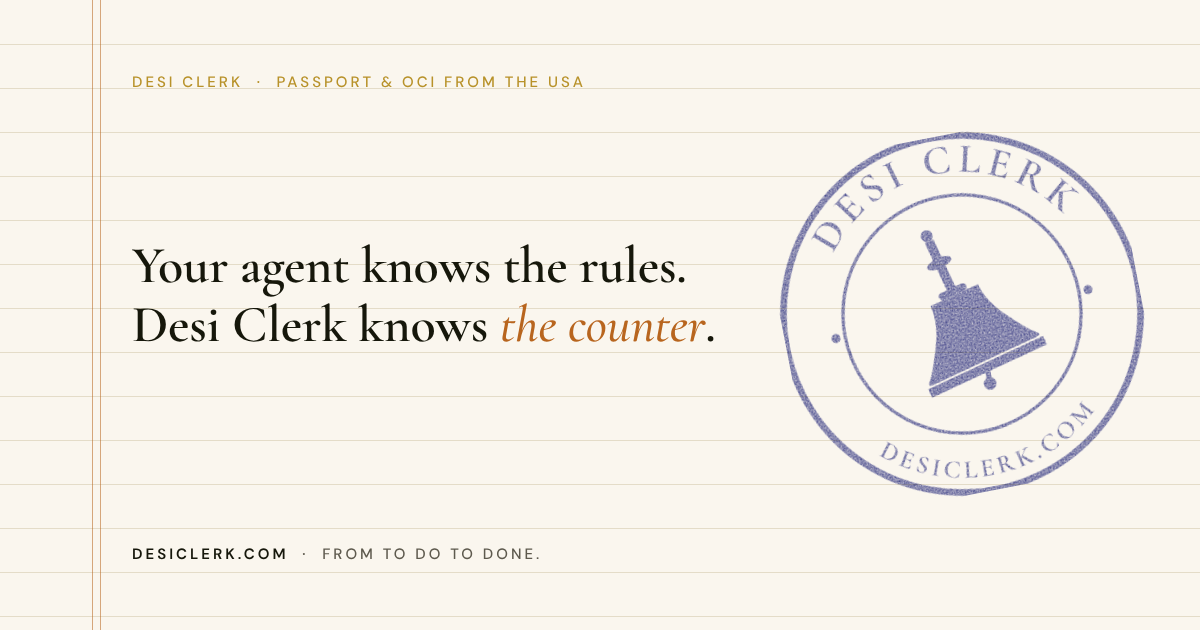
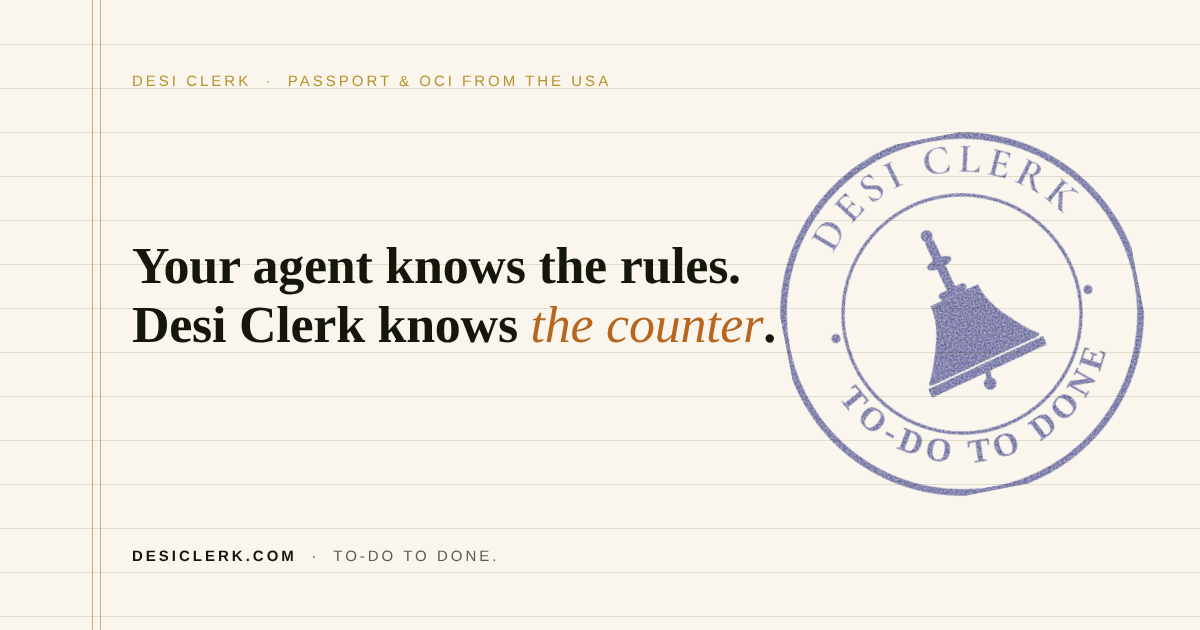
Skill served from desiclerk.com; stamp reads To-do to done
Claude-Session: https://claude.ai/code/session_017b7oD9xgapqAYvH9hE42Uo

diff --git a/card-source.html b/card-source.html
@@ -19,14 +19,15 @@ html,body{margin:0;background:var(--cream)}
 <div class="margin"></div>
 <div class="eyebrow">Desi Clerk &nbsp;·&nbsp; Passport &amp; OCI from the USA</div>
 <div class="line">Your agent knows the rules.<br>Desi Clerk knows <em>the counter</em>.</div>
-<div class="url"><b>desiclerk.com</b> &nbsp;·&nbsp; From to do to done.</div>
+<div class="url"><b>desiclerk.com</b> &nbsp;·&nbsp; To-do to done.</div>
 <div class="stamp"><svg xmlns="http://www.w3.org/2000/svg" viewBox="0 0 200 200" aria-hidden="true">
 <defs><filter id="grain" x="0" y="0" width="1" height="1"><feTurbulence type="fractalNoise" baseFrequency="1.1" numOctaves="2" seed="7" result="n"/><feColorMatrix in="n" type="matrix" values="0 0 0 0 0  0 0 0 0 0  0 0 0 0 0  0 0 0 -0.9 1.05" result="m"/><feComposite in="SourceGraphic" in2="m" operator="in"/></filter></defs>
 <g fill="#3B3F8F" filter="url(#grain)">
 <circle cx="100" cy="100" r="96" fill="none" stroke="#3B3F8F" stroke-width="3.5"/>
 <circle cx="100" cy="100" r="64" fill="none" stroke="#3B3F8F" stroke-width="1.75"/>
 <path d="M42.5 49.67Q42.05 50.18 41.32 50.89Q40.6 51.6 40.04 52.24Q39.52 52.81 39.07 53.35Q38.62 53.89 38.24 54.32Q38.21 54.35 38.11 54.26Q38.01 54.17 38.04 54.14Q38.52 53.6 38.69 53.25Q38.85 52.9 38.69 52.59Q38.52 52.28 38.05 51.85L30.44 45.08Q29.97 44.65 29.65 44.53Q29.33 44.41 29 44.59Q28.67 44.78 28.2 45.31Q28.16 45.36 28.06 45.27Q27.96 45.18 28 45.14Q28.38 44.72 28.86 44.23Q29.34 43.73 29.86 43.16Q30.37 42.58 30.94 41.86Q31.5 41.15 31.93 40.66Q33.47 38.94 35.26 38.25Q37.06 37.55 38.83 37.85Q40.6 38.15 42.01 39.41Q43.24 40.51 43.85 41.83Q44.46 43.15 44.48 44.53Q44.5 45.91 43.99 47.24Q43.48 48.57 42.5 49.67ZM42.02 49.54Q43.03 48.4 43.27 47.05Q43.51 45.7 42.91 44.27Q42.31 42.83 40.8 41.49Q39.39 40.23 37.84 39.68Q36.28 39.13 34.86 39.38Q33.44 39.62 32.4 40.79Q31.53 41.76 31.35 42.34Q31.17 42.92 31.87 43.54L39.26 50.13Q39.89 50.7 40.49 50.65Q41.08 50.6 42.02 49.54Z M58.98 35.28 51.22 40.85Q51.17 40.88 51.1 40.78Q51.02 40.67 51.07 40.63Q51.66 40.21 51.88 39.91Q52.1 39.62 52.01 39.28Q51.91 38.94 51.54 38.43L45.6 30.15Q45.22 29.64 44.94 29.45Q44.66 29.26 44.3 29.36Q43.94 29.47 43.35 29.9Q43.3 29.93 43.23 29.82Q43.15 29.72 43.2 29.68L50.64 24.34Q50.81 24.21 50.93 24.37L52.63 26.66Q52.66 26.71 52.57 26.78Q52.49 26.86 52.43 26.83Q51.49 25.96 50.5 25.91Q49.52 25.85 48.5 26.59L47.77 27.11Q47.33 27.43 47.14 27.71Q46.95 27.99 47 28.29Q47.05 28.6 47.32 28.98L53.19 37.13Q53.46 37.52 53.73 37.69Q54 37.85 54.29 37.8Q54.58 37.74 54.97 37.46L55.85 36.83Q57.06 35.96 57.39 34.84Q57.72 33.71 57.21 32.33Q57.19 32.27 57.3 32.22Q57.42 32.17 57.45 32.21Q57.74 32.76 58.19 33.49Q58.63 34.22 59.06 34.81Q59.25 35.08 58.98 35.28ZM55.07 31.95Q54.53 31.2 53.75 31.16Q52.98 31.13 51.96 31.85L49.46 33.65L49.13 33.2L51.66 31.38Q52.65 30.67 52.89 29.98Q53.13 29.29 52.67 28.65Q52.63 28.6 52.74 28.53Q52.84 28.45 52.87 28.5Q53.28 29.07 53.5 29.4Q53.72 29.72 53.97 30.07Q54.28 30.5 54.6 30.9Q54.93 31.3 55.29 31.8Q55.31 31.83 55.2 31.91Q55.1 31.99 55.07 31.95Z M61.47 20.96Q61.83 21.74 62.49 22.14Q63.15 22.53 63.99 22.69Q64.84 22.85 65.75 22.98Q66.72 23.1 67.64 23.29Q68.56 23.49 69.32 23.96Q70.08 24.43 70.53 25.39Q71 26.41 70.82 27.45Q70.65 28.49 69.91 29.38Q69.17 30.27 67.89 30.85Q67.34 31.11 66.7 31.28Q66.07 31.44 65.48 31.51Q64.89 31.57 64.48 31.5Q64.36 31.48 64.28 31.43Q64.19 31.37 64.11 31.21L62.59 28.25Q62.53 28.16 62.63 28.1Q62.74 28.04 62.79 28.11Q63.32 28.61 63.95 29.12Q64.58 29.64 65.28 29.99Q65.97 30.35 66.71 30.44Q67.44 30.53 68.19 30.19Q68.69 29.95 69.07 29.56Q69.46 29.17 69.55 28.58Q69.64 28 69.28 27.22Q68.84 26.27 68.11 25.8Q67.39 25.33 66.5 25.13Q65.61 24.94 64.68 24.82Q63.77 24.7 62.9 24.51Q62.04 24.33 61.35 23.88Q60.65 23.44 60.24 22.54Q59.74 21.44 60.01 20.46Q60.29 19.48 61.06 18.72Q61.84 17.95 62.81 17.5Q63.47 17.2 64.21 17.01Q64.94 16.82 65.51 16.8Q65.73 16.79 65.83 16.86Q65.93 16.93 65.99 17.05L67.28 19.74Q67.31 19.8 67.23 19.87Q67.14 19.94 67.08 19.89Q66.85 19.64 66.4 19.2Q65.95 18.77 65.35 18.39Q64.74 18.01 64.02 17.88Q63.3 17.75 62.52 18.1Q61.93 18.38 61.6 18.82Q61.28 19.27 61.23 19.81Q61.19 20.35 61.47 20.96Z M80.19 24.26Q80.36 24.87 80.56 25.16Q80.76 25.45 81.13 25.46Q81.5 25.47 82.2 25.28Q82.26 25.26 82.29 25.39Q82.33 25.52 82.27 25.53Q81.73 25.68 81.06 25.84Q80.4 26 79.61 26.22Q78.86 26.43 78.19 26.64Q77.52 26.84 76.98 26.99Q76.93 27.01 76.89 26.88Q76.86 26.75 76.91 26.74Q77.6 26.55 77.93 26.34Q78.25 26.14 78.28 25.79Q78.32 25.44 78.15 24.82L75.44 15Q75.27 14.39 75.07 14.11Q74.86 13.84 74.47 13.82Q74.08 13.8 73.39 13.99Q73.34 14.01 73.3 13.88Q73.27 13.75 73.32 13.74Q73.86 13.59 74.55 13.44Q75.23 13.28 75.98 13.07Q76.77 12.85 77.43 12.64Q78.09 12.42 78.61 12.28Q78.67 12.26 78.71 12.39Q78.74 12.52 78.68 12.53Q78 12.72 77.69 12.94Q77.38 13.17 77.35 13.52Q77.32 13.87 77.49 14.48Z M104.06 9.58Q104.81 9.6 105.53 9.69Q106.24 9.78 106.87 9.95Q107.49 10.12 107.99 10.37Q108.17 10.45 108.22 10.54Q108.27 10.63 108.28 10.88L108.49 13.79Q108.49 13.85 108.37 13.88Q108.26 13.9 108.22 13.81Q107.69 12 106.59 11.02Q105.48 10.04 103.8 10Q102.17 9.95 100.9 10.73Q99.63 11.5 98.88 12.96Q98.14 14.42 98.09 16.46Q98.05 17.97 98.45 19.24Q98.84 20.5 99.6 21.42Q100.35 22.35 101.38 22.87Q102.4 23.39 103.63 23.42Q105.28 23.46 106.36 22.62Q107.43 21.78 108.27 19.98Q108.31 19.92 108.41 19.94Q108.52 19.97 108.51 20.03L108.16 22.64Q108.13 22.9 108.08 22.97Q108.02 23.04 107.84 23.13Q106.75 23.54 105.71 23.7Q104.67 23.86 103.61 23.84Q101.25 23.78 99.45 22.83Q97.64 21.89 96.64 20.25Q95.63 18.62 95.69 16.52Q95.73 14.94 96.38 13.64Q97.02 12.34 98.16 11.42Q99.3 10.5 100.81 10.02Q102.31 9.54 104.06 9.58Z M119.74 13.77 117.33 23.55Q117.19 24.1 117.22 24.4Q117.26 24.69 117.54 24.86Q117.81 25.02 118.4 25.17L119.68 25.48Q121.2 25.86 122.46 25.26Q123.71 24.66 124.41 23.33Q124.44 23.27 124.54 23.31Q124.65 23.36 124.63 23.42Q124.4 24.07 124.11 24.99Q123.82 25.9 123.62 26.69Q123.54 27.01 123.22 26.93L113.21 24.47Q113.17 24.46 113.2 24.33Q113.23 24.2 113.27 24.21Q113.97 24.38 114.35 24.36Q114.72 24.34 114.92 24.05Q115.12 23.76 115.27 23.14L117.71 13.25Q117.86 12.63 117.82 12.29Q117.78 11.95 117.46 11.75Q117.14 11.54 116.44 11.37Q116.39 11.36 116.43 11.23Q116.46 11.11 116.5 11.12Q117.01 11.24 117.69 11.44Q118.37 11.65 119.12 11.83Q119.92 12.03 120.59 12.16Q121.27 12.29 121.79 12.42Q121.85 12.43 121.82 12.56Q121.79 12.69 121.73 12.68Q121.04 12.51 120.66 12.54Q120.28 12.57 120.09 12.86Q119.89 13.15 119.74 13.77Z M136.51 32.62 127.86 28.57Q127.81 28.55 127.86 28.43Q127.92 28.31 127.97 28.33Q128.63 28.64 129 28.69Q129.36 28.74 129.61 28.49Q129.86 28.24 130.13 27.67L134.45 18.44Q134.72 17.87 134.75 17.53Q134.78 17.19 134.51 16.93Q134.24 16.67 133.58 16.36Q133.53 16.34 133.59 16.22Q133.64 16.1 133.7 16.12L141.99 20.01Q142.18 20.1 142.1 20.28L140.93 22.88Q140.91 22.93 140.8 22.89Q140.69 22.86 140.69 22.79Q140.99 21.54 140.55 20.66Q140.12 19.77 138.98 19.24L138.17 18.86Q137.68 18.63 137.34 18.6Q137 18.57 136.76 18.77Q136.52 18.96 136.32 19.38L132.06 28.48Q131.86 28.9 131.84 29.22Q131.83 29.53 132.02 29.76Q132.21 29.99 132.65 30.19L133.63 30.65Q134.97 31.29 136.12 31.02Q137.26 30.76 138.22 29.65Q138.26 29.6 138.36 29.67Q138.46 29.75 138.44 29.8Q138.1 30.32 137.68 31.06Q137.26 31.81 136.95 32.47Q136.81 32.77 136.51 32.62ZM137.5 27.59Q137.9 26.76 137.55 26.06Q137.2 25.36 136.07 24.83L133.28 23.52L133.52 23.01L136.34 24.34Q137.45 24.86 138.17 24.73Q138.88 24.6 139.22 23.89Q139.24 23.83 139.36 23.88Q139.47 23.94 139.44 23.99Q139.14 24.63 138.97 24.98Q138.79 25.33 138.61 25.71Q138.38 26.2 138.19 26.67Q138 27.15 137.74 27.71Q137.72 27.75 137.6 27.69Q137.48 27.63 137.5 27.59Z M150.06 42Q149.79 41.79 149.69 40.66Q149.59 39.53 149.69 37.62Q149.79 35.72 150.05 33.17L151.77 33.81Q151.57 37.02 151.6 39.06Q151.62 41.09 151.97 42.25Q152.32 43.4 153.03 43.95Q153.07 43.98 152.99 44.09Q152.91 44.19 152.87 44.16Q151.77 43.31 151.07 42.78Q150.38 42.25 150.06 42ZM154.53 28Q156.06 29.18 156.41 30.41Q156.77 31.64 155.97 32.68Q155.2 33.68 154.03 34.03Q152.87 34.37 151.63 34.12Q150.4 33.86 149.38 33.08Q149.16 32.91 148.92 32.72Q148.69 32.53 148.5 32.36L145.51 36.24Q145.12 36.75 145.01 37.08Q144.9 37.41 145.12 37.72Q145.33 38.02 145.91 38.46Q145.95 38.49 145.86 38.6Q145.78 38.7 145.74 38.67Q145.3 38.33 144.77 37.9Q144.25 37.46 143.6 36.96Q142.99 36.49 142.42 36.09Q141.85 35.68 141.41 35.33Q141.36 35.3 141.44 35.19Q141.52 35.09 141.57 35.12Q142.15 35.57 142.5 35.7Q142.85 35.83 143.15 35.65Q143.45 35.46 143.84 34.96L150.06 26.89Q150.45 26.38 150.55 26.06Q150.65 25.73 150.44 25.42Q150.24 25.11 149.66 24.67Q149.62 24.64 149.7 24.53Q149.78 24.43 149.82 24.46Q150.26 24.8 150.79 25.24Q151.31 25.69 151.92 26.16Q152.49 26.59 153.22 27.08Q153.96 27.56 154.53 28ZM153.79 31.98Q154.57 30.97 154.75 30.24Q154.93 29.52 154.68 28.98Q154.42 28.44 153.86 28.01Q153.18 27.48 152.7 27.51Q152.21 27.54 151.7 28.21L148.86 31.89Q149.08 32.11 149.35 32.34Q149.62 32.58 149.83 32.74Q150.99 33.63 151.92 33.42Q152.84 33.21 153.79 31.98Z M157.8 46.99 165.72 40.58Q166.21 40.18 166.39 39.89Q166.56 39.59 166.42 39.23Q166.29 38.88 165.84 38.33Q165.81 38.28 165.91 38.2Q166.01 38.11 166.05 38.16Q166.4 38.6 166.81 39.15Q167.22 39.71 167.7 40.3Q168.22 40.94 168.67 41.45Q169.13 41.96 169.47 42.38Q169.51 42.43 169.41 42.51Q169.3 42.59 169.27 42.55Q168.82 42 168.49 41.8Q168.17 41.61 167.83 41.72Q167.5 41.83 167 42.23L159.12 48.62Q158.63 49.02 158.44 49.32Q158.26 49.62 158.4 49.96Q158.54 50.31 158.99 50.87Q159.04 50.93 158.94 51.01Q158.84 51.1 158.79 51.04Q158.44 50.6 158.03 50.07Q157.62 49.53 157.11 48.89Q156.62 48.3 156.16 47.76Q155.7 47.22 155.34 46.79Q155.32 46.75 155.42 46.67Q155.52 46.59 155.55 46.62Q156 47.19 156.32 47.4Q156.64 47.61 156.97 47.51Q157.31 47.4 157.8 46.99ZM162.49 50.54 163.74 45.44 165.8 45.74 164.48 51.07Q164.09 52.55 163.88 53.53Q163.66 54.52 163.59 55.13Q163.51 55.74 163.57 56.11Q163.63 56.48 163.8 56.74Q163.97 57.01 164.2 57.29Q164.24 57.34 164.14 57.43Q164.03 57.51 163.99 57.46Q163.38 56.7 163.01 56.24Q162.63 55.78 162.44 55.55Q162.26 55.33 162.12 55.18Q161.98 55.04 161.88 54.91Q161.7 54.69 161.65 54.46Q161.61 54.23 161.69 53.8Q161.77 53.38 161.97 52.61Q162.16 51.84 162.49 50.54ZM161.47 44.99 169.52 45.77Q170.67 45.89 170.95 45.43Q171.23 44.97 170.53 44.1Q170.49 44.06 170.59 43.97Q170.69 43.89 170.73 43.94Q171.09 44.38 171.44 44.87Q171.79 45.35 172.41 46.11Q173.03 46.88 173.42 47.3Q173.81 47.73 174.14 48.15Q174.19 48.2 174.08 48.28Q173.98 48.36 173.94 48.31Q173.35 47.58 172.23 47.01Q171.11 46.44 169.76 46.28L161.8 45.46Z"/>
-<path d="M44.8 168.61Q44.47 168.35 44.01 167.93Q43.55 167.51 43.15 167.18Q42.78 166.89 42.43 166.63Q42.08 166.37 41.81 166.16Q41.79 166.14 41.84 166.07Q41.89 166.01 41.91 166.03Q42.26 166.3 42.48 166.39Q42.7 166.48 42.88 166.37Q43.07 166.26 43.31 165.95L47.21 161.06Q47.45 160.76 47.51 160.56Q47.58 160.36 47.45 160.16Q47.33 159.97 46.99 159.7Q46.96 159.67 47.01 159.61Q47.06 159.55 47.09 159.57Q47.35 159.78 47.67 160.06Q47.99 160.34 48.36 160.64Q48.74 160.94 49.19 161.26Q49.65 161.58 49.96 161.83Q51.07 162.71 51.55 163.78Q52.04 164.86 51.92 165.96Q51.79 167.05 51.07 167.96Q50.44 168.75 49.65 169.17Q48.87 169.58 48.02 169.64Q47.17 169.7 46.34 169.44Q45.51 169.17 44.8 168.61ZM44.87 168.31Q45.6 168.89 46.43 168.99Q47.27 169.09 48.13 168.67Q48.99 168.26 49.76 167.29Q50.48 166.38 50.76 165.41Q51.05 164.44 50.85 163.57Q50.65 162.71 49.9 162.11Q49.28 161.62 48.91 161.52Q48.55 161.43 48.19 161.88L44.41 166.64Q44.08 167.04 44.14 167.41Q44.19 167.77 44.87 168.31Z M56.15 176.34 51.16 173.27Q51.13 173.25 51.17 173.18Q51.21 173.11 51.24 173.13Q51.62 173.36 51.84 173.42Q52.06 173.48 52.23 173.34Q52.4 173.21 52.61 172.88L55.89 167.56Q56.09 167.22 56.13 167.02Q56.17 166.81 56.03 166.64Q55.88 166.46 55.5 166.22Q55.47 166.21 55.51 166.14Q55.56 166.07 55.59 166.09L60.37 169.04Q60.48 169.1 60.42 169.21L59.52 170.71Q59.51 170.74 59.44 170.71Q59.38 170.68 59.38 170.64Q59.65 169.9 59.45 169.33Q59.25 168.76 58.59 168.36L58.12 168.07Q57.84 167.89 57.64 167.85Q57.43 167.81 57.27 167.91Q57.11 168.01 56.96 168.26L53.73 173.5Q53.57 173.75 53.54 173.94Q53.51 174.13 53.61 174.29Q53.71 174.44 53.96 174.59L54.53 174.94Q55.31 175.42 56.02 175.34Q56.74 175.26 57.4 174.65Q57.43 174.62 57.48 174.67Q57.54 174.73 57.52 174.75Q57.28 175.05 56.97 175.47Q56.66 175.9 56.43 176.28Q56.32 176.45 56.15 176.34ZM57.11 173.35Q57.4 172.86 57.24 172.41Q57.08 171.96 56.43 171.56L54.82 170.57L55 170.28L56.63 171.28Q57.26 171.67 57.71 171.65Q58.16 171.62 58.41 171.21Q58.43 171.17 58.49 171.21Q58.56 171.25 58.54 171.29Q58.31 171.65 58.18 171.85Q58.05 172.05 57.91 172.28Q57.74 172.56 57.59 172.83Q57.44 173.11 57.24 173.43Q57.23 173.45 57.16 173.41Q57.09 173.37 57.11 173.35Z M63.9 172.52Q63.67 172.99 63.74 173.46Q63.81 173.93 64.07 174.39Q64.32 174.85 64.62 175.33Q64.94 175.83 65.21 176.34Q65.48 176.86 65.56 177.4Q65.63 177.95 65.35 178.53Q65.05 179.15 64.5 179.48Q63.94 179.8 63.23 179.8Q62.52 179.8 61.74 179.43Q61.4 179.27 61.08 179.03Q60.75 178.8 60.49 178.54Q60.23 178.29 60.1 178.07Q60.06 178.01 60.05 177.94Q60.05 177.88 60.09 177.78L60.9 175.9Q60.91 175.84 60.98 175.86Q61.05 175.89 61.04 175.94Q61.01 176.39 61.01 176.89Q61.02 177.39 61.12 177.86Q61.23 178.32 61.47 178.71Q61.72 179.09 62.17 179.31Q62.48 179.45 62.81 179.48Q63.15 179.51 63.46 179.32Q63.77 179.13 64 178.66Q64.28 178.08 64.22 177.55Q64.15 177.02 63.9 176.53Q63.64 176.03 63.33 175.55Q63.03 175.07 62.78 174.59Q62.53 174.1 62.47 173.6Q62.41 173.1 62.67 172.56Q62.99 171.89 63.56 171.64Q64.13 171.38 64.8 171.45Q65.46 171.51 66.05 171.79Q66.46 171.99 66.84 172.26Q67.21 172.54 67.44 172.8Q67.54 172.9 67.54 172.97Q67.55 173.05 67.51 173.12L66.75 174.79Q66.73 174.83 66.67 174.81Q66.6 174.8 66.6 174.75Q66.63 174.54 66.66 174.16Q66.69 173.78 66.63 173.34Q66.58 172.91 66.35 172.52Q66.13 172.12 65.66 171.9Q65.29 171.72 64.96 171.74Q64.62 171.76 64.35 171.96Q64.07 172.15 63.9 172.52Z M70.19 181.64Q70.05 182 70.04 182.22Q70.04 182.43 70.22 182.57Q70.4 182.71 70.82 182.87Q70.85 182.88 70.83 182.96Q70.8 183.03 70.76 183.02Q70.44 182.9 70.05 182.74Q69.67 182.58 69.19 182.4Q68.74 182.23 68.34 182.1Q67.93 181.96 67.61 181.84Q67.58 181.83 67.61 181.75Q67.63 181.68 67.67 181.69Q68.08 181.84 68.31 181.86Q68.55 181.87 68.69 181.71Q68.83 181.55 68.97 181.18L71.16 175.33Q71.3 174.96 71.29 174.75Q71.29 174.54 71.1 174.39Q70.92 174.24 70.5 174.09Q70.47 174.08 70.5 174Q70.53 173.92 70.56 173.93Q70.89 174.06 71.28 174.23Q71.67 174.39 72.12 174.56Q72.6 174.74 73 174.87Q73.41 175 73.72 175.11Q73.75 175.13 73.72 175.2Q73.69 175.28 73.66 175.27Q73.25 175.11 73.02 175.11Q72.78 175.11 72.64 175.28Q72.5 175.44 72.36 175.81Z M81.04 177.12Q81.49 177.24 81.9 177.39Q82.31 177.55 82.66 177.74Q83.02 177.92 83.28 178.15Q83.37 178.22 83.39 178.28Q83.41 178.33 83.38 178.49L83.1 180.26Q83.09 180.29 83.02 180.29Q82.95 180.29 82.94 180.23Q82.87 179.08 82.35 178.34Q81.83 177.6 80.82 177.33Q79.86 177.08 78.99 177.37Q78.12 177.65 77.47 178.42Q76.82 179.19 76.51 180.4Q76.28 181.3 76.34 182.11Q76.4 182.92 76.72 183.58Q77.04 184.24 77.58 184.69Q78.12 185.14 78.85 185.33Q79.83 185.59 80.59 185.24Q81.35 184.89 82.1 183.93Q82.14 183.89 82.19 183.92Q82.25 183.95 82.24 183.99L81.67 185.5Q81.61 185.65 81.57 185.69Q81.53 185.72 81.41 185.75Q80.7 185.84 80.05 185.79Q79.41 185.74 78.78 185.58Q77.38 185.22 76.43 184.4Q75.49 183.58 75.11 182.47Q74.74 181.35 75.07 180.1Q75.31 179.16 75.88 178.48Q76.45 177.79 77.26 177.4Q78.07 177.01 79.03 176.93Q80 176.85 81.04 177.12Z M88.15 179.8 87.31 185.92Q87.26 186.27 87.3 186.44Q87.34 186.62 87.52 186.71Q87.7 186.79 88.07 186.84L88.87 186.95Q89.82 187.08 90.55 186.63Q91.28 186.19 91.61 185.33Q91.63 185.29 91.69 185.31Q91.76 185.33 91.76 185.37Q91.66 185.78 91.54 186.36Q91.42 186.94 91.35 187.43Q91.32 187.63 91.12 187.61L84.85 186.75Q84.83 186.74 84.84 186.66Q84.85 186.58 84.88 186.59Q85.31 186.65 85.54 186.61Q85.77 186.57 85.87 186.38Q85.98 186.19 86.03 185.8L86.88 179.61Q86.93 179.22 86.88 179.02Q86.83 178.82 86.63 178.71Q86.42 178.61 85.98 178.55Q85.95 178.54 85.96 178.46Q85.97 178.38 86 178.39Q86.32 178.43 86.75 178.51Q87.18 178.59 87.65 178.65Q88.14 178.72 88.56 178.76Q88.99 178.8 89.31 178.84Q89.35 178.85 89.34 178.93Q89.33 179.01 89.29 179Q88.86 178.94 88.63 178.99Q88.4 179.03 88.3 179.22Q88.2 179.41 88.15 179.8Z M100.25 188.04 94.39 187.88Q94.35 187.88 94.36 187.79Q94.36 187.71 94.39 187.71Q94.84 187.73 95.06 187.67Q95.28 187.6 95.36 187.4Q95.43 187.2 95.45 186.81L95.62 180.56Q95.63 180.17 95.57 179.98Q95.5 179.78 95.28 179.7Q95.07 179.62 94.62 179.6Q94.59 179.6 94.59 179.52Q94.59 179.44 94.63 179.44L100.25 179.6Q100.38 179.6 100.37 179.73L100.35 181.48Q100.35 181.51 100.28 181.52Q100.21 181.52 100.19 181.48Q100.06 180.71 99.6 180.32Q99.14 179.92 98.37 179.9L97.82 179.89Q97.48 179.88 97.29 179.94Q97.09 180.01 97 180.18Q96.91 180.35 96.9 180.63L96.73 186.79Q96.72 187.08 96.79 187.27Q96.86 187.45 97.02 187.53Q97.19 187.61 97.48 187.62L98.14 187.64Q99.06 187.66 99.64 187.24Q100.22 186.81 100.48 185.95Q100.49 185.91 100.57 185.93Q100.64 185.95 100.64 185.98Q100.58 186.36 100.52 186.88Q100.47 187.4 100.46 187.85Q100.45 188.05 100.25 188.04ZM99.58 184.97Q99.59 184.4 99.23 184.09Q98.86 183.78 98.1 183.76L96.21 183.71L96.21 183.36L98.13 183.42Q98.88 183.44 99.25 183.19Q99.62 182.94 99.63 182.46Q99.64 182.42 99.71 182.43Q99.79 182.43 99.79 182.47Q99.77 182.9 99.76 183.14Q99.75 183.38 99.74 183.64Q99.73 183.96 99.74 184.28Q99.75 184.59 99.74 184.97Q99.74 185 99.66 185Q99.58 184.99 99.58 184.97Z M110.61 187.4Q110.4 187.42 109.89 186.95Q109.37 186.48 108.62 185.58Q107.87 184.68 106.92 183.43L107.97 183Q109.21 184.53 110.07 185.43Q110.94 186.34 111.57 186.71Q112.21 187.09 112.76 187.04Q112.79 187.04 112.8 187.12Q112.81 187.2 112.78 187.2Q111.93 187.28 111.39 187.33Q110.86 187.37 110.61 187.4ZM106.78 179.23Q107.96 179.13 108.64 179.53Q109.31 179.94 109.38 180.74Q109.45 181.51 109.07 182.15Q108.69 182.8 108.03 183.19Q107.37 183.59 106.58 183.67Q106.41 183.68 106.23 183.69Q106.04 183.71 105.89 183.71L106.16 186.71Q106.2 187.1 106.29 187.29Q106.38 187.49 106.6 187.53Q106.82 187.58 107.27 187.54Q107.3 187.54 107.31 187.62Q107.31 187.7 107.28 187.7Q106.94 187.73 106.52 187.76Q106.1 187.78 105.6 187.83Q105.13 187.87 104.71 187.92Q104.28 187.98 103.94 188.01Q103.9 188.01 103.89 187.93Q103.89 187.85 103.92 187.85Q104.37 187.8 104.58 187.72Q104.79 187.63 104.85 187.42Q104.91 187.21 104.88 186.82L104.31 180.6Q104.27 180.21 104.18 180.02Q104.09 179.83 103.87 179.78Q103.65 179.72 103.2 179.76Q103.17 179.77 103.16 179.69Q103.16 179.61 103.19 179.6Q103.53 179.57 103.95 179.55Q104.37 179.54 104.84 179.49Q105.28 179.45 105.81 179.36Q106.34 179.27 106.78 179.23ZM108.11 181.33Q108.04 180.56 107.82 180.15Q107.6 179.75 107.26 179.61Q106.92 179.48 106.49 179.52Q105.96 179.56 105.76 179.78Q105.55 179.99 105.6 180.51L105.85 183.35Q106.05 183.36 106.26 183.35Q106.48 183.34 106.65 183.33Q107.54 183.25 107.87 182.76Q108.2 182.28 108.11 181.33Z M115.99 185.47 114.63 179.37Q114.54 178.99 114.43 178.81Q114.32 178.64 114.08 178.62Q113.85 178.59 113.43 178.69Q113.39 178.69 113.37 178.61Q113.36 178.54 113.39 178.53Q113.73 178.45 114.14 178.38Q114.56 178.31 115.02 178.21Q115.51 178.1 115.92 177.99Q116.32 177.88 116.65 177.8Q116.68 177.8 116.7 177.88Q116.72 177.95 116.68 177.96Q116.26 178.06 116.06 178.18Q115.87 178.31 115.84 178.52Q115.8 178.74 115.89 179.12L117.24 185.2Q117.32 185.58 117.44 185.76Q117.55 185.94 117.78 185.96Q118.01 185.98 118.44 185.88Q118.49 185.87 118.5 185.95Q118.52 186.03 118.48 186.04Q118.14 186.12 117.73 186.19Q117.33 186.27 116.84 186.38Q116.38 186.48 115.96 186.59Q115.53 186.69 115.2 186.77Q115.17 186.77 115.15 186.7Q115.14 186.62 115.16 186.61Q115.6 186.51 115.8 186.4Q116.01 186.29 116.04 186.07Q116.07 185.86 115.99 185.47ZM119.22 183.87 116.76 181.79 117.48 180.74 120.05 182.92Q120.76 183.54 121.24 183.93Q121.72 184.32 122.03 184.53Q122.35 184.73 122.57 184.8Q122.79 184.87 122.98 184.85Q123.17 184.83 123.39 184.78Q123.43 184.77 123.45 184.85Q123.47 184.93 123.43 184.94Q122.84 185.07 122.49 185.15Q122.13 185.23 121.95 185.27Q121.78 185.31 121.66 185.34Q121.54 185.38 121.45 185.4Q121.28 185.44 121.14 185.4Q121 185.37 120.79 185.21Q120.58 185.05 120.21 184.73Q119.84 184.41 119.22 183.87ZM115.89 182.91 118.52 178.71Q118.9 178.11 118.73 177.83Q118.55 177.55 117.88 177.7Q117.85 177.7 117.83 177.62Q117.81 177.55 117.85 177.54Q118.19 177.46 118.55 177.4Q118.91 177.34 119.5 177.21Q120.09 177.08 120.43 176.98Q120.77 176.89 121.09 176.82Q121.13 176.81 121.15 176.89Q121.17 176.97 121.13 176.97Q120.57 177.1 119.94 177.56Q119.32 178.01 118.87 178.71L116.24 182.86Z M126.81 183.97Q126.49 184.08 126.23 183.95Q125.98 183.82 125.88 183.5Q125.78 183.19 125.91 182.94Q126.05 182.7 126.37 182.59Q126.71 182.49 126.94 182.61Q127.18 182.74 127.27 183.05Q127.38 183.37 127.26 183.62Q127.15 183.87 126.81 183.97Z M132.03 172.68Q132.45 172.5 132.87 172.37Q133.29 172.24 133.69 172.17Q134.08 172.11 134.42 172.12Q134.54 172.12 134.59 172.16Q134.64 172.19 134.71 172.33L135.57 173.91Q135.58 173.94 135.53 173.98Q135.47 174.02 135.42 173.98Q134.67 173.11 133.8 172.84Q132.94 172.57 131.98 172.98Q131.07 173.36 130.55 174.12Q130.04 174.88 129.99 175.88Q129.95 176.89 130.44 178.04Q130.8 178.89 131.34 179.5Q131.89 180.1 132.54 180.43Q133.2 180.75 133.9 180.78Q134.61 180.81 135.3 180.52Q136.23 180.12 136.62 179.38Q137.01 178.64 137.02 177.42Q137.02 177.37 137.09 177.36Q137.15 177.35 137.17 177.38L137.63 178.93Q137.68 179.08 137.67 179.14Q137.66 179.19 137.58 179.28Q137.07 179.79 136.53 180.15Q136 180.5 135.4 180.75Q134.06 181.32 132.82 181.25Q131.57 181.18 130.59 180.53Q129.62 179.87 129.11 178.68Q128.73 177.79 128.76 176.9Q128.8 176 129.2 175.2Q129.6 174.4 130.32 173.75Q131.04 173.1 132.03 172.68Z M144.92 175.86Q144.08 176.36 143.23 176.47Q142.37 176.58 141.58 176.34Q140.79 176.11 140.12 175.58Q139.46 175.06 139 174.29Q138.44 173.36 138.38 172.43Q138.33 171.51 138.65 170.68Q138.98 169.85 139.56 169.19Q140.14 168.53 140.84 168.11Q141.7 167.59 142.56 167.5Q143.43 167.4 144.21 167.64Q145 167.88 145.64 168.39Q146.29 168.9 146.7 169.6Q147.18 170.41 147.27 171.3Q147.36 172.19 147.11 173.05Q146.86 173.9 146.3 174.64Q145.74 175.37 144.92 175.86ZM145.14 175.36Q145.84 174.94 146.17 174.24Q146.5 173.54 146.39 172.62Q146.28 171.71 145.66 170.67Q145.02 169.59 144.17 168.97Q143.32 168.34 142.38 168.24Q141.45 168.15 140.55 168.68Q139.42 169.36 139.28 170.54Q139.14 171.72 139.99 173.14Q140.49 173.97 141.12 174.56Q141.75 175.15 142.45 175.46Q143.14 175.76 143.83 175.74Q144.53 175.72 145.14 175.36Z M151.48 169.48 147.47 164.36 147.77 164.15 151.76 169.25Q152.2 169.81 152.66 169.92Q153.12 170.03 153.57 169.66Q153.6 169.64 153.65 169.7Q153.7 169.76 153.67 169.79Q153.44 169.97 153.19 170.16Q152.94 170.35 152.64 170.59Q152.33 170.85 152.08 171.07Q151.83 171.3 151.6 171.48Q151.58 171.5 151.52 171.44Q151.47 171.38 151.5 171.35Q151.93 171 151.93 170.52Q151.92 170.03 151.48 169.48ZM159.81 164.56Q159.83 164.54 159.88 164.6Q159.93 164.67 159.91 164.69Q159.64 164.9 159.3 165.17Q158.96 165.43 158.59 165.73Q158.22 166.03 157.91 166.3Q157.6 166.57 157.34 166.78Q157.32 166.81 157.27 166.74Q157.21 166.68 157.24 166.66Q157.74 166.25 157.77 166Q157.81 165.74 157.41 165.32L153.28 160.72L153.16 159.62L155.6 168.09Q155.63 168.14 155.56 168.19Q155.49 168.25 155.43 168.22L148.03 164.95Q147.04 164.52 146.44 165.01Q146.41 165.04 146.36 164.97Q146.31 164.91 146.34 164.89Q146.54 164.72 146.77 164.55Q147 164.38 147.15 164.25Q147.39 164.06 147.56 163.9Q147.74 163.74 147.84 163.66Q147.98 163.54 148.15 163.58Q148.31 163.61 148.76 163.81L154.89 166.49L155.09 167.66L152.91 159.94Q152.86 159.76 152.88 159.63Q152.91 159.51 153.01 159.42Q153.1 159.35 153.22 159.27Q153.35 159.19 153.5 159.07Q153.81 158.81 154.02 158.62Q154.23 158.43 154.45 158.25Q154.48 158.23 154.53 158.29Q154.58 158.35 154.55 158.38Q154.06 158.78 153.98 159.14Q153.9 159.51 154.26 159.92L158.4 164.5Q158.67 164.79 158.86 164.9Q159.05 165.01 159.26 164.92Q159.47 164.84 159.81 164.56Z"/>
+<defs><path id="arc" d="M 20,100 A 80,80 0 0,0 180,100"/></defs>
+<text font-family="'Cormorant Garamond',Georgia,serif" font-size="18" font-weight="600" letter-spacing="3.2" fill="#3B3F8F" text-anchor="middle"><textPath href="#arc" startOffset="50%">TO-DO TO DONE</textPath></text>
 <circle cx="31" cy="100" r="2.4"/><circle cx="169" cy="100" r="2.4"/>
 <g transform="rotate(-14 100 98)"><circle cx="100" cy="54" r="3.2"/><rect x="97.5" y="57" width="5" height="30"/><ellipse cx="100" cy="70" rx="7" ry="2.8"/><rect x="92" y="85" width="16" height="4" rx="2"/><path d="M86 89 H114 Q114 100 122 112 Q128 122 132 126 Q134 128 130 128 H70 Q66 128 68 126 Q72 122 78 112 Q86 100 86 89 Z"/><rect x="66" y="129" width="68" height="5"/><g transform="rotate(14 100 130)"><rect x="98.6" y="134" width="2.8" height="4"/><circle cx="100" cy="140.5" r="3.4"/></g></g>
 </g>

diff --git a/classic/index.html b/classic/index.html
@@ -147,7 +147,7 @@ footer .sign{font-family:var(--sans);font-size:11px;letter-spacing:.18em;text-tr
 <header>
   <h1>Call my <em>agent</em>.</h1>
   <p class="lede">Your agent knows the rules. Desi Clerk knows the counter. Got a Dot, a Duet or a Muse working for you? Hand it this loop-engineered skill so it doesn't drop any bureaucratic balls: the photo spec, the affidavit the desk never asked for, the form that expires at 90 days. Three applications: surrender your Indian passport, OCI for you, OCI for your child.</p>
-  <div class="paste"><code id="pasteline">Load the India consular skill from github.com/vousenpri/desiclerk/tree/main/skill and prepare my VFS applications: surrender, OCI for me, OCI for my child. Tell me the preconditions before any form, then tell me whether to mail it or walk in at my centre, check VFS appointment availability if walk-in, pick a slot that fits my calendar, and put the deadlines on it.</code><button class="btn" type="button" id="copyBtn">Copy</button></div>
+  <div class="paste"><code id="pasteline">Load the India consular skill from desiclerk.com/skill (start with SKILL.md) and prepare my VFS applications: surrender, OCI for me, OCI for my child. Tell me the preconditions before any form, then tell me whether to mail it or walk in at my centre, check VFS appointment availability if walk-in, pick a slot that fits my calendar, and put the deadlines on it.</code><button class="btn" type="button" id="copyBtn">Copy</button></div>
   <p class="small">If it has your browser and calendar, it works out mail-in versus walk-in, checks VFS slot availability if you need one, picks it around your week and puts the 90-day form expiry and the 3-month passport-upload window on it. Your passport scans stay with your agent. Desi Clerk never receives them. Free, no account.</p>
   <div class="start" style="margin-top:28px">
     <span class="start-note">No agent? Use the page</span>

diff --git a/index.html b/index.html
@@ -336,7 +336,7 @@ ol.stack .d{grid-column:2}
 <header>
   <h1>Call my <em>agent</em>.</h1>
   <p class="lede">Getting OCI? Give this to your AI agent so nothing gets missed.</p>
-  <div class="paste"><code id="pasteline">Load the skill at github.com/vousenpri/desiclerk/tree/main/skill and do my Indian passport surrender and OCI, for me and my child. Tell me what I need before any form. Then book VFS around my calendar and put every deadline on it.</code><button class="btn" type="button" id="copyBtn">Copy</button></div>
+  <div class="paste"><code id="pasteline">Load the skill at desiclerk.com/skill (start with SKILL.md, then the files it names) and do my Indian passport surrender and OCI, for me and my child. Tell me what I need before any form. Then book VFS around my calendar and put every deadline on it.</code><button class="btn" type="button" id="copyBtn">Copy</button></div>
   <p class="small">Your documents stay with your agent. Free, no account.</p>
   <div class="start" style="margin-top:28px">
     <span class="start-note">No agent? Pick one</span>

diff --git a/skill/SKILL.md b/skill/SKILL.md
@@ -3,6 +3,8 @@ name: india-consular
 description: Use whenever the user is preparing, filing, or maintaining a Government of India consular application from the USA via VFS Global — Indian passport surrender/renunciation, fresh OCI, OCI re-issue or passport upload, minor OCI — or asks about photo specs, fees, or what to bring to a VFS centre. Loads a precondition-first method and verified checklists so the answer is a correct stack, not a walkthrough.
 ---
 
+Fetching this skill by URL: every file is served under https://desiclerk.com/skill/ and `FILES.txt` there lists all of them. Or download https://desiclerk.com/skill.zip.
+
 # India consular (USA / VFS) — specialist method
 
 You are a specialist, not a guide. The user does not want the sequence of steps; they want to walk into VFS with the right stack, or upload the right file, once. A generic agent fails here in three ways. Do not repeat them:
